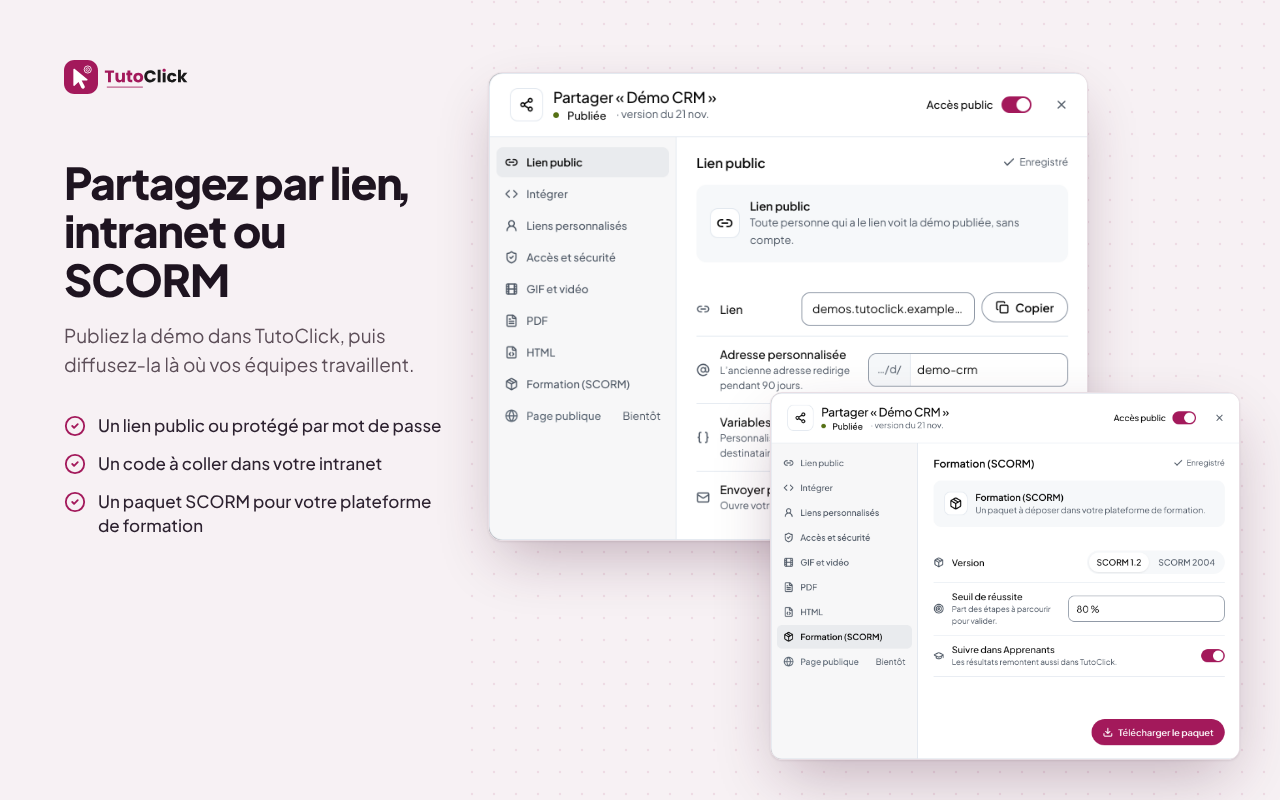
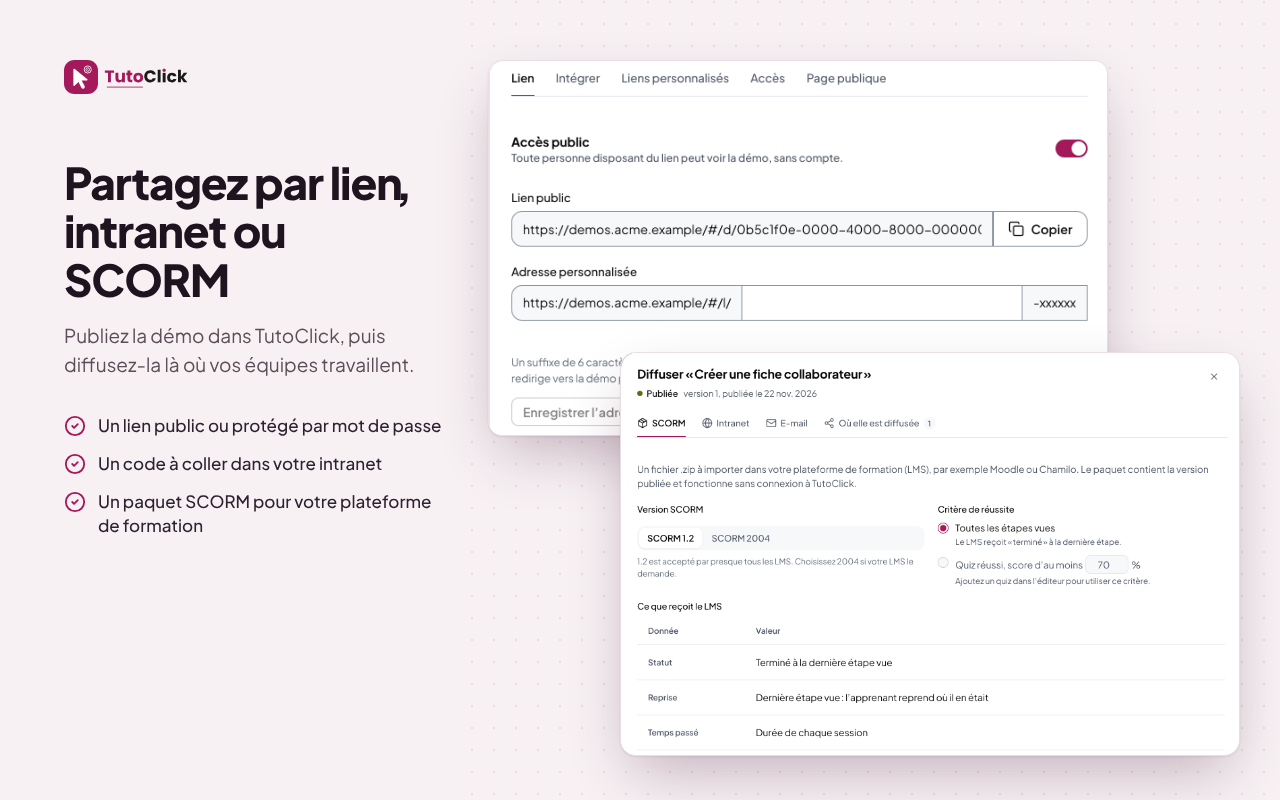
UX : visuels du Store, colonne Étapes, bulle, Partager et SCORM en vraies captures de l'app en ligne (captures 2 et 5, marquee) ; sources dans le README
Claude-Session: https://claude.ai/code/session_016yn81XNDaqi4emq7ho6CNv

diff --git a/docs/ux/store/extension/README.md b/docs/ux/store/extension/README.md
@@ -6,8 +6,7 @@ L'interface montrée est la vraie :
 - le popup de l'extension, construite à partir du code ;
 - l'écran « Vérifier les données avant l'envoi », avec ses flous réels ;
 - la barre de la capture HTML ;
-- le badge REC ;
-- les fenêtres Partager et SCORM des maquettes du lot 4.
+- le badge REC.
 
 Le logiciel capturé, « Acme RH », est fictif. Ses données sont inventées et ses e-mails sont en `@example.com`. Aucune marque tierce n'apparaît.
 
@@ -23,3 +22,20 @@ Le logiciel capturé, « Acme RH », est fictif. Ses données sont inventées et
 | `icone-128.png` | 128 × 128, RGBA | Icône de la boutique | Symbole LOGO-01 : 96 px de dessin, 16 px de marge transparente, net en 16, 32 et 48 px | |
 
 Le format mobile et la page entière sont « Bientôt » : aucun visuel ne les montre comme disponibles. Le popup de la capture 1 s'arrête au-dessus de la carte « Format mobile ».
+
+## Source de chaque bloc d'interface (mise à jour du 22/11)
+
+| Visuel | Bloc | Source |
+|---|---|---|
+| capture-1 | popup, badge REC | extension construite |
+| capture-1 | logiciel Acme RH | page fictive Acme RH (données inventées) |
+| capture-2 | colonne Étapes, canevas, point de clic et bulle « Créez la fiche » | capture de l'app en ligne (main 7888251), éditeur, démo fictive « Créer une fiche collaborateur » de 5 étapes |
+| capture-3 | « Vérifier les données avant l'envoi », flous | extension construite |
+| capture-4 | barre de la capture HTML, badge REC | extension construite |
+| capture-4 | barre vidéo | recopiée du code de l'extension (`videobar.content.ts`), non capturable en headless |
+| capture-5 | onglet « Lien » de Partager la démo | capture de l'app en ligne (main 7888251) ; l'adresse du lecteur est remplacée par `demos.acme.example` (domaine fictif) |
+| capture-5 | fenêtre « Diffuser », onglet SCORM | capture de l'app en ligne (main 7888251), démo publiée |
+| marquee | colonne Étapes et bulle | capture de l'app en ligne (main 7888251), comme capture-2 |
+| vignette | bouton, point de clic et bulle | dessin à la charte (petite taille, illustratif) |
+
+À refaire quand les lots 3 et 4 (nouvel éditeur, nouvelles pages Partager et Diffuser) seront en ligne.
